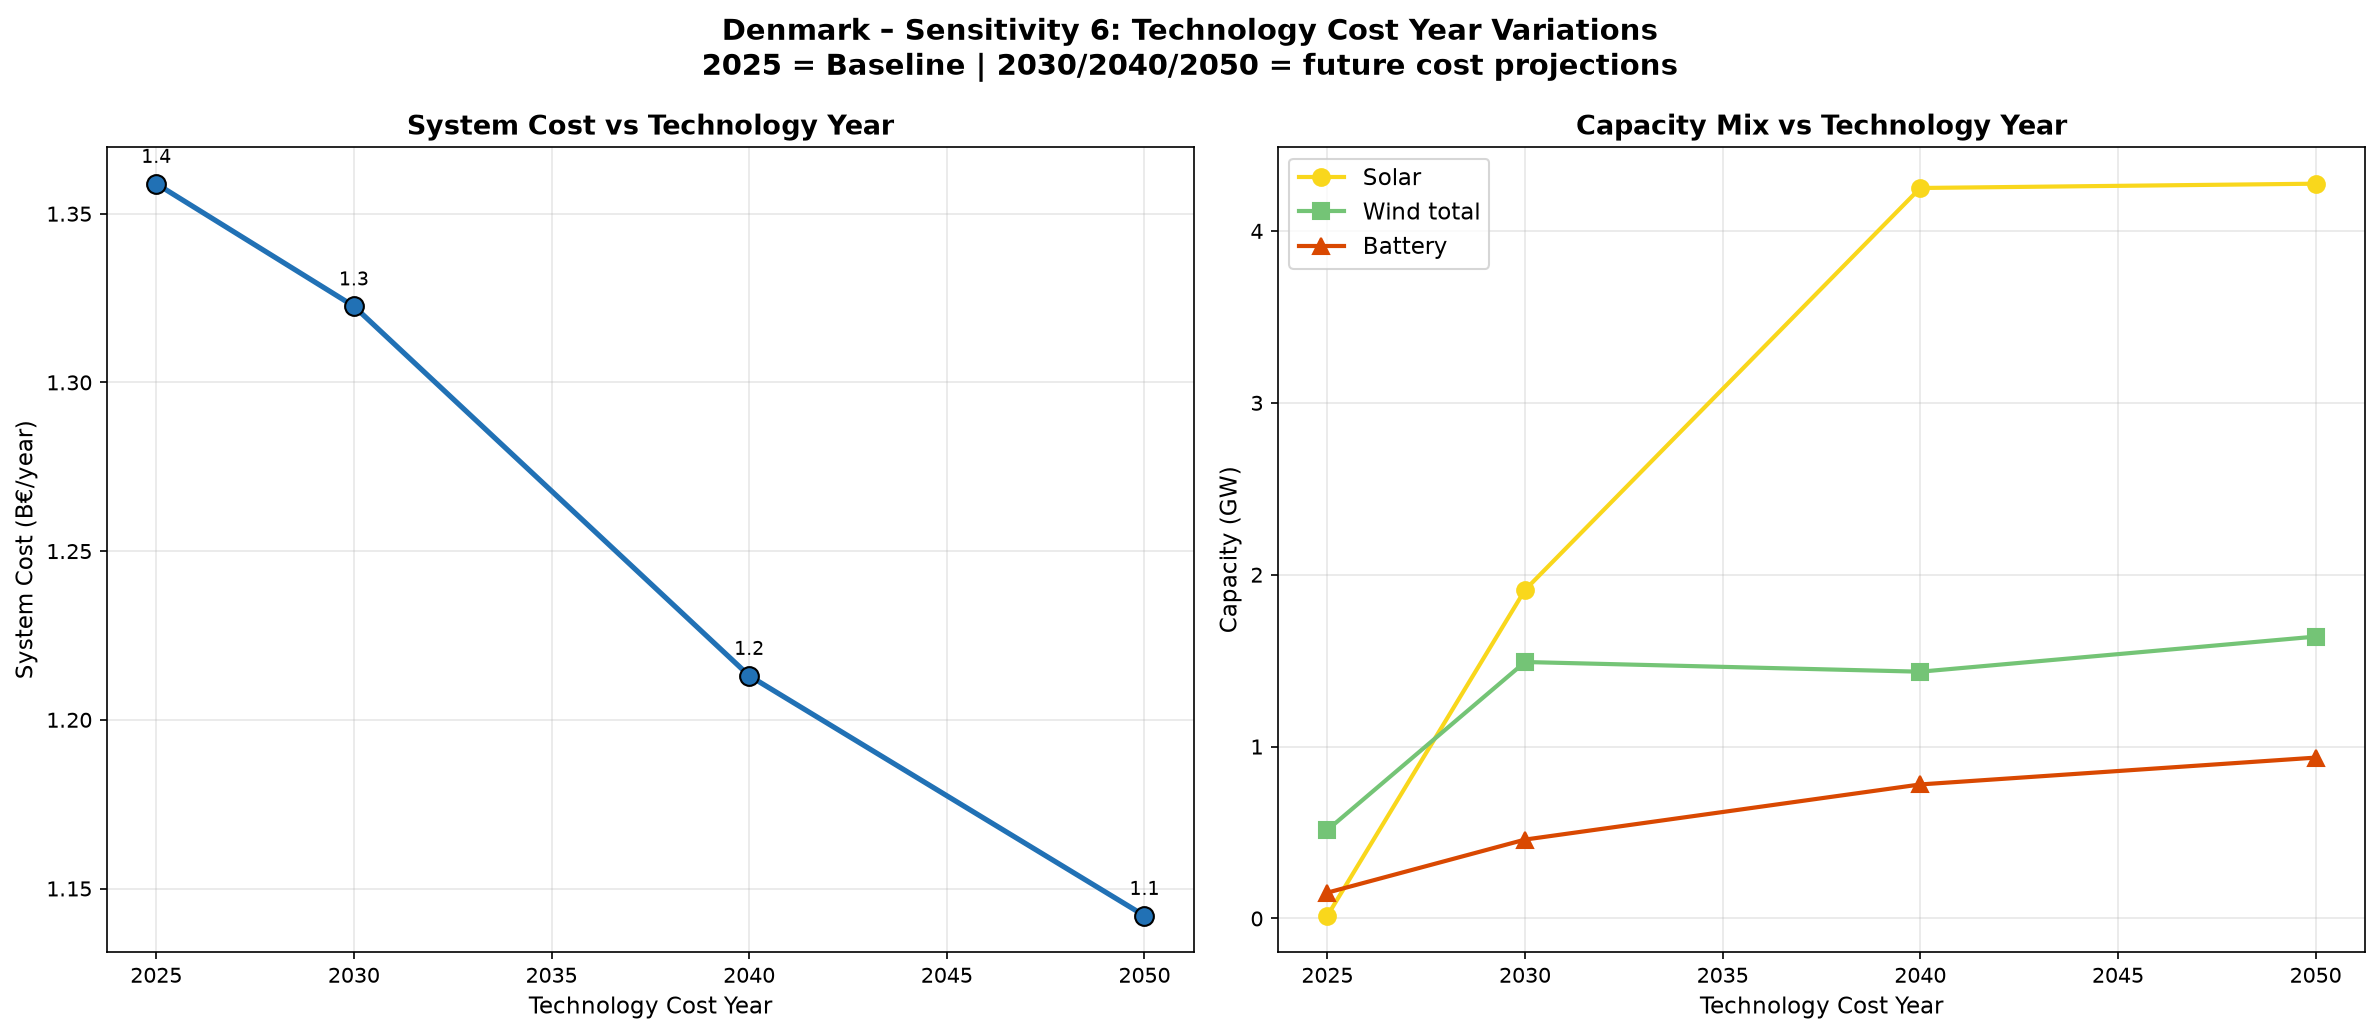
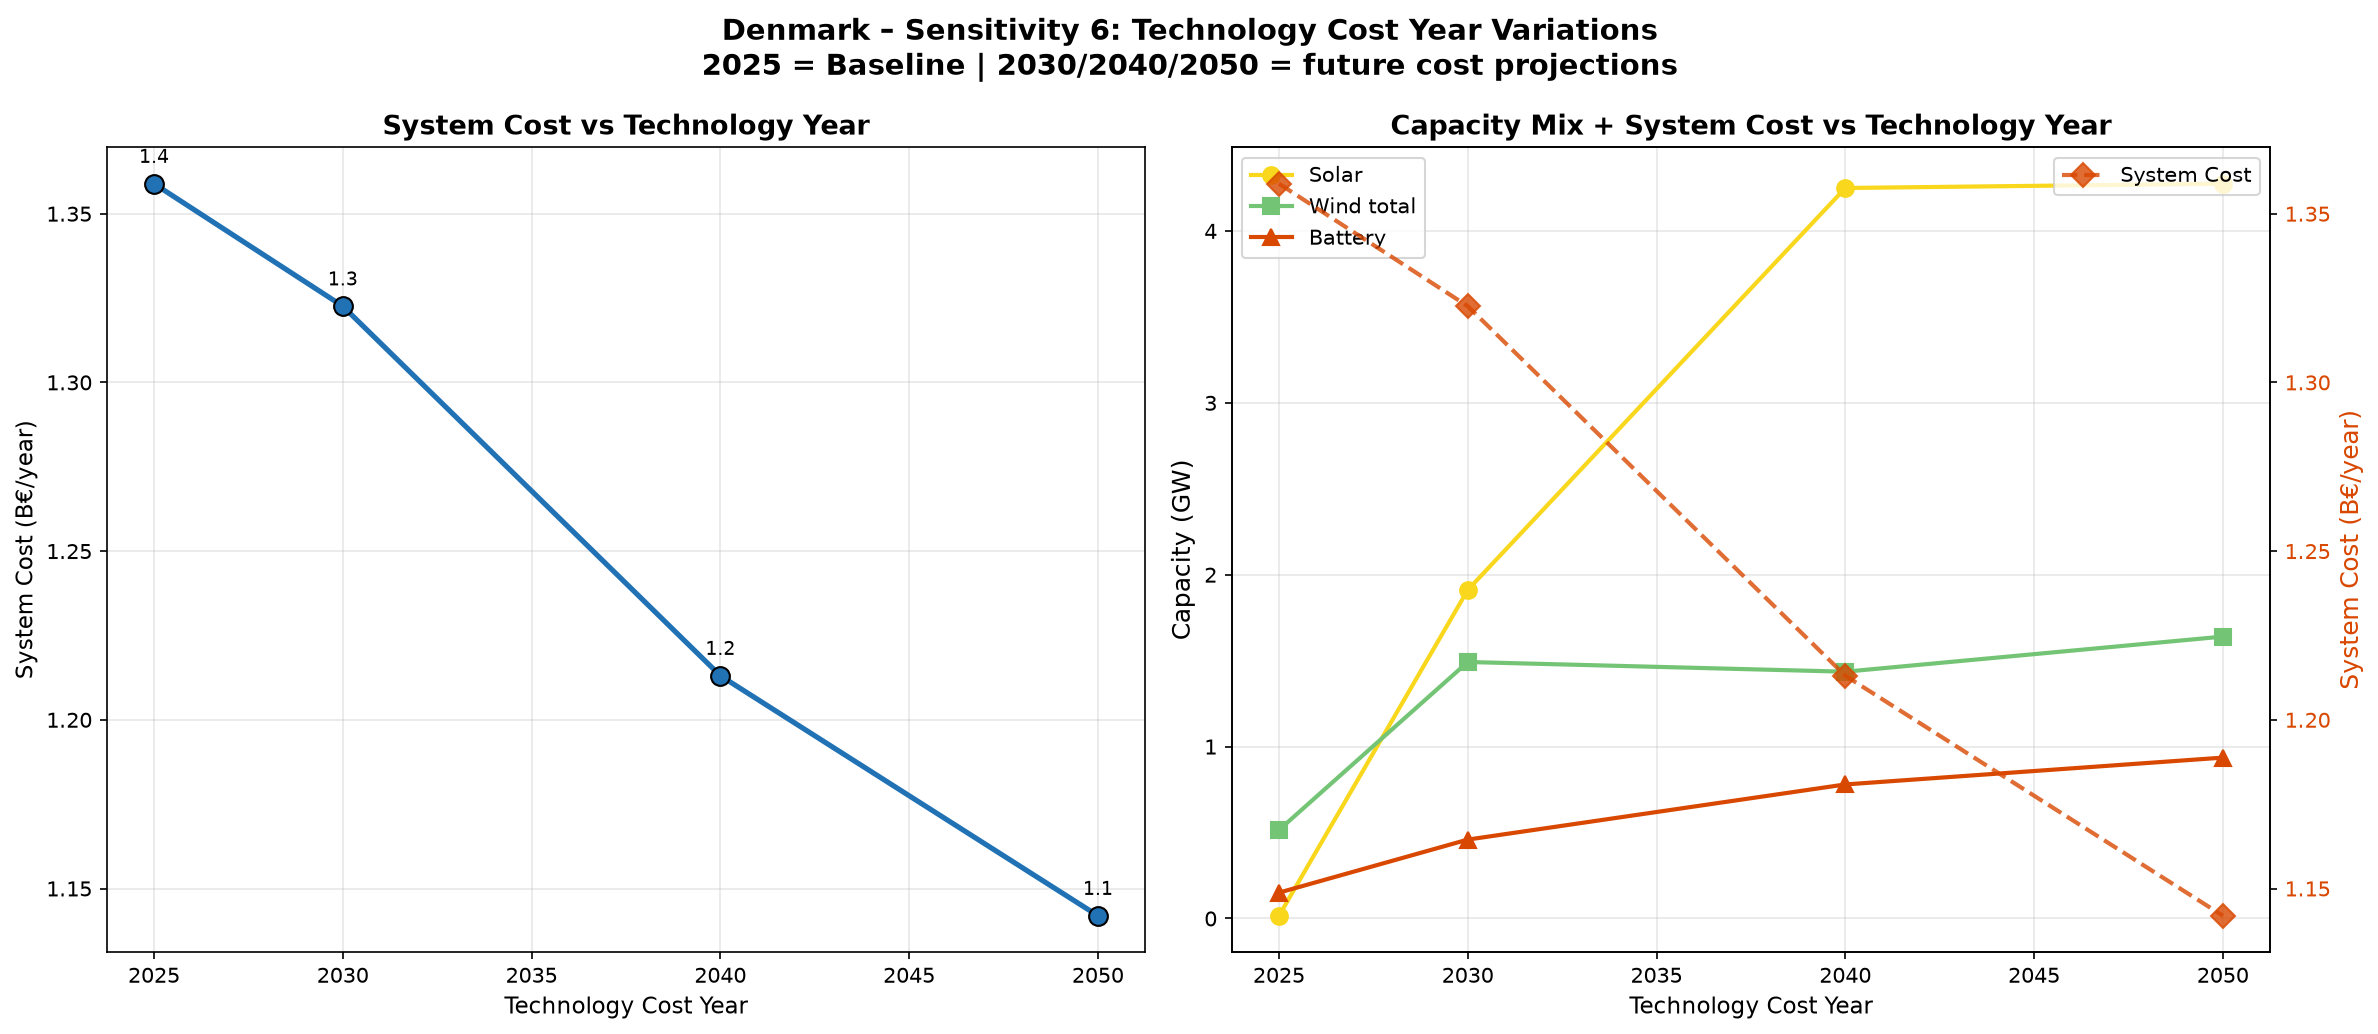
Add annual generation with battery plot and tech year cost axis

diff --git a/analysis.py b/analysis.py
@@ -434,8 +434,7 @@ def plot_06():
             ax.plot(duration, sorted_p_clipped, linewidth=1.5, alpha=0.8, label=col)
         ax.set_xlabel("% of time", fontsize=12)
         ax.set_ylabel("Electricity Price (€/MWh)", fontsize=12)
-        ax.set_title(f"Price Duration Curve – {label}\n(clipped to 1st–99th percentile)",
-                     fontweight="bold")
+        
         ax.legend(title="Region", fontsize=9, loc="upper right")
         ax.set_xlim(0, 100); ax.grid(alpha=0.3)
         ax.axhline(y=0, color="red", lw=0.8, ls="--", alpha=0.5, label="Zero price")
@@ -1058,9 +1057,18 @@ def plot_22():
     axes[1].plot(yrs, solar, "o-", color=COLORS["solar"],        lw=2, markersize=8, label="Solar")
     axes[1].plot(yrs, wind,  "s-", color=COLORS["onshore_wind"], lw=2, markersize=8, label="Wind total")
     axes[1].plot(yrs, bat,   "^-", color=COLORS["battery"],      lw=2, markersize=8, label="Battery")
-    axes[1].set_xlabel("Technology Cost Year"); axes[1].set_ylabel("Capacity (GW)")
-    axes[1].set_title("Capacity Mix vs Technology Year", fontweight="bold")
-    axes[1].legend(fontsize=11); axes[1].grid(alpha=0.3)
+    axes[1].set_xlabel("Technology Cost Year")
+    axes[1].set_ylabel("Capacity (GW)", fontsize=12)
+    axes[1].set_title("Capacity Mix + System Cost vs Technology Year", fontweight="bold")
+    axes[1].legend(fontsize=10, loc="upper left"); axes[1].grid(alpha=0.3)
+
+    # Second y-axis for costs
+    ax2 = axes[1].twinx()
+    ax2.plot(yrs, costs, "D--", color="#d94801", lw=2, markersize=8,
+             label="System Cost", alpha=0.8)
+    ax2.set_ylabel("System Cost (B€/year)", fontsize=12, color="#d94801")
+    ax2.tick_params(axis="y", labelcolor="#d94801")
+    ax2.legend(loc="upper right", fontsize=10)
 
     fig.suptitle("Denmark – Sensitivity 6: Technology Cost Year Variations\n"
                  "2025 = Baseline | 2030/2040/2050 = future cost projections",
@@ -1068,9 +1076,65 @@ def plot_22():
     plt.tight_layout()
     save(fig, "22_tech_years")
 
-# ═══════════════════════════════════════════════════════════════════════════════
-# RUN ALL
-# ═══════════════════════════════════════════════════════════════════════════════
+
+#  New Plot
+
+def plot_annual_generation_with_storage():
+    print("\n[plot] Annual Generation + Storage + Demand")
+    fig, axes = plt.subplots(2, 1, figsize=(20, 14), sharex=True)
+    for ax, (fname, label) in zip(axes, [
+            ("02_baseline.nc", "Baseline"),
+            ("04_zero_co2.nc", "Zero CO₂")]):
+        try: n = load(fname)
+        except: continue
+
+        # Generation weekly avg
+        gen_t = n.generators_t.p.copy()
+        gen_t.columns = n.generators.loc[gen_t.columns, "carrier"]
+        gen_t = gen_t.T.groupby(level=0).sum().T / 1e3
+        gw = gen_t.resample("W").mean()
+
+        # Battery dispatch (positive = discharging)
+        bat_cols = [c for c in n.storage_units.index
+                    if "battery" in n.storage_units.at[c, "carrier"].lower()]
+        if bat_cols:
+            bat_dispatch = n.storage_units_t.p[bat_cols].sum(axis=1).resample("W").mean() / 1e3
+        else:
+            bat_dispatch = None
+
+        # Demand
+        lw = n.loads_t.p_set.sum(axis=1).resample("W").mean() / 1e3
+
+        bot = pd.Series(0.0, index=gw.index)
+        for car in gw.columns:
+            if gw[car].sum() > 0:
+                ax.fill_between(gw.index, bot, bot + gw[car],
+                                label=car, color=color(car), alpha=0.85)
+                bot += gw[car]
+
+        # Battery discharge on top
+        if bat_dispatch is not None and bat_dispatch.max() > 0:
+            ax.fill_between(gw.index,
+                            bot,
+                            bot + bat_dispatch.clip(lower=0),
+                            label="battery (discharge)",
+                            color=COLORS["battery"], alpha=0.6)
+
+        lw.plot(ax=ax, color="black", lw=2.5, label="Demand",
+                zorder=10, ls="--")
+        ax.set_ylabel("Power (GW, weekly avg)", fontsize=12)
+        ax.set_title(label, fontweight="bold", fontsize=13)
+        ax.legend(loc="upper left", fontsize=10, ncol=5, framealpha=0.9)
+        ax.grid(alpha=0.2)
+
+    fig.suptitle("Denmark – Annual Generation (incl. Battery Discharge) & Demand",
+                 fontsize=14, fontweight="bold")
+    plt.tight_layout()
+    save(fig, "03c_annual_generation_with_battery")
+
+# # ═══════════════════════════════════════════════════════════════════════════════
+# # RUN ALL
+# # ═══════════════════════════════════════════════════════════════════════════════
 if __name__ == "__main__":
     print("=" * 60)
     print("Denmark Energy Model – Generating all plots")
@@ -1083,7 +1147,7 @@ if __name__ == "__main__":
     # plot_03()
     # plot_04()
     # plot_05()
-    # plot_06()
+    plot_06()
     # plot_07()
     # plot_08()
     # plot_09()
@@ -1102,6 +1166,7 @@ if __name__ == "__main__":
     # plot_20()
     # plot_21()
     plot_22()
+    #plot_annual_generation_with_storage()
 
     print("\n" + "=" * 60)
     print(f"✓ All plots saved to {OUT_DIR}/")